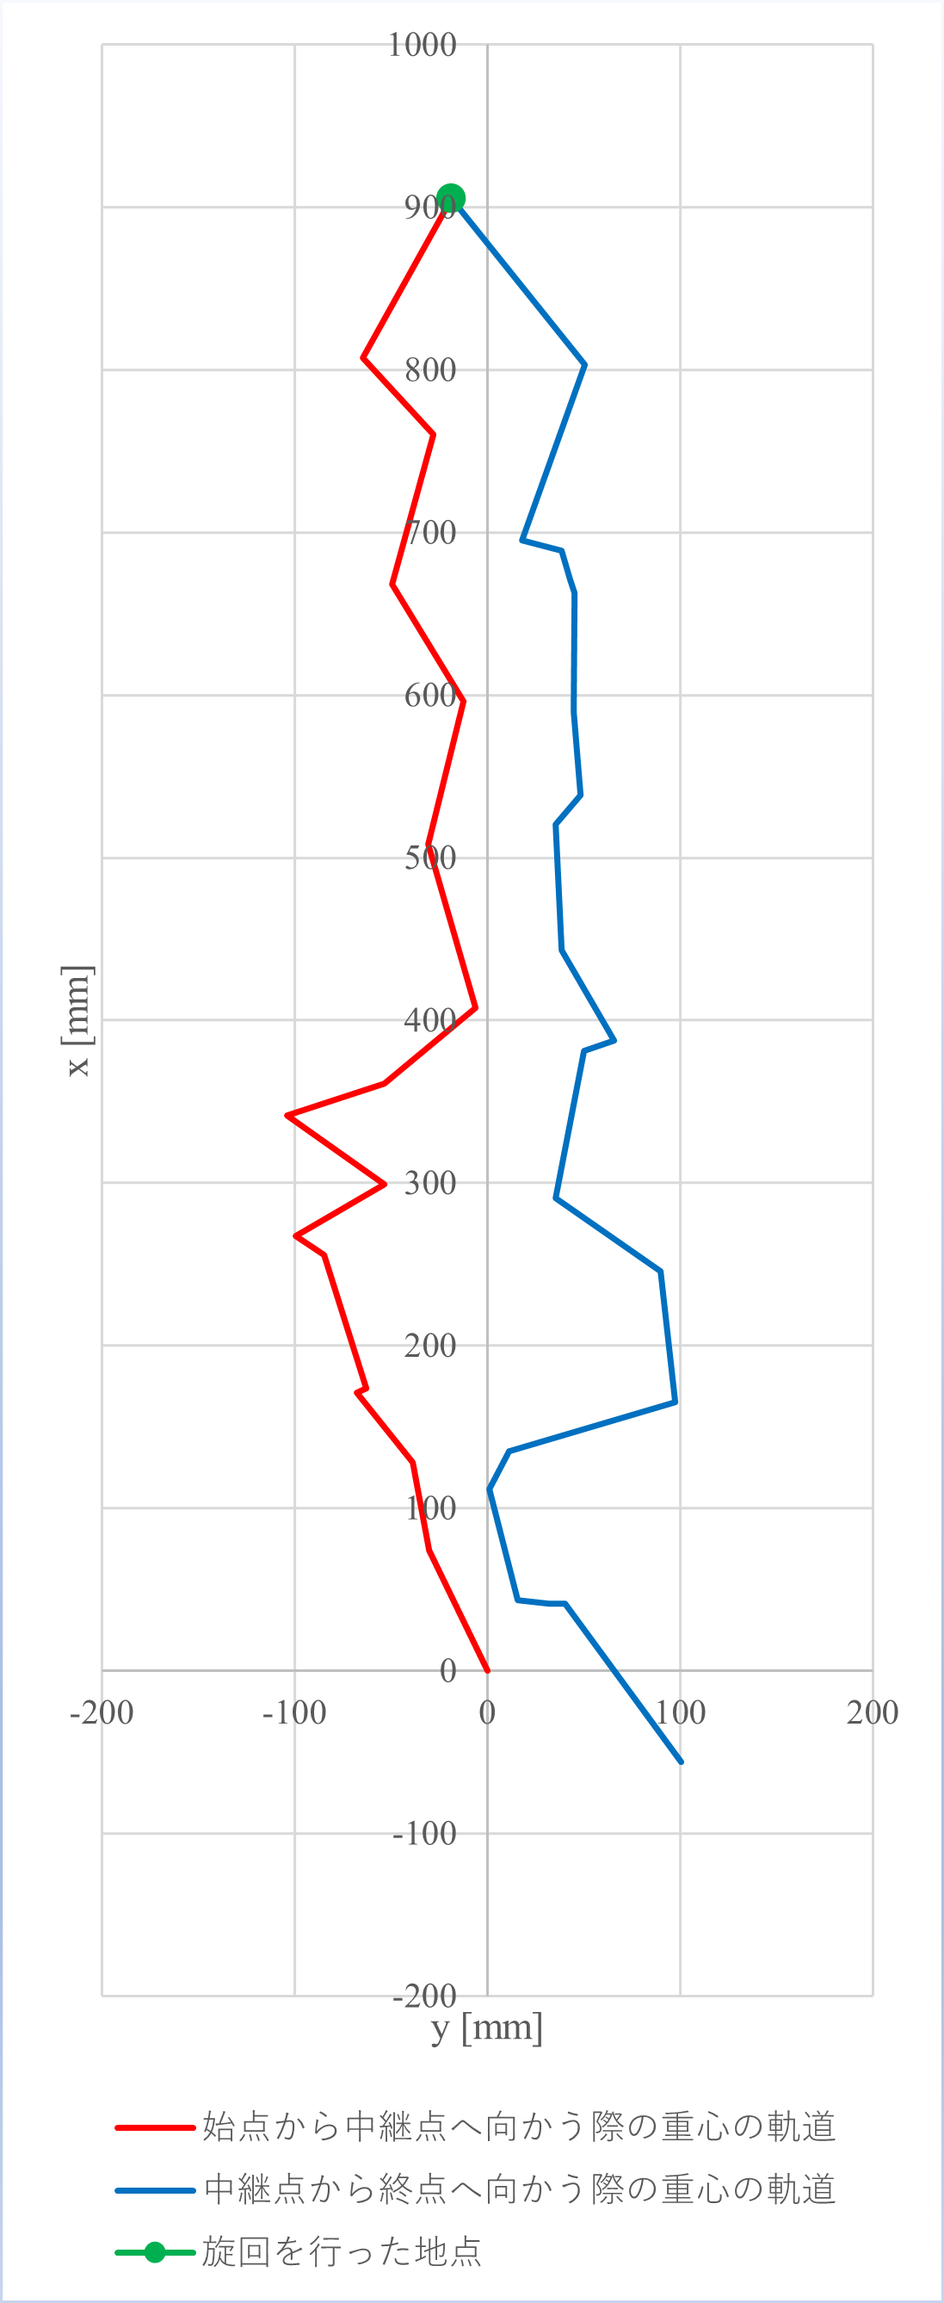
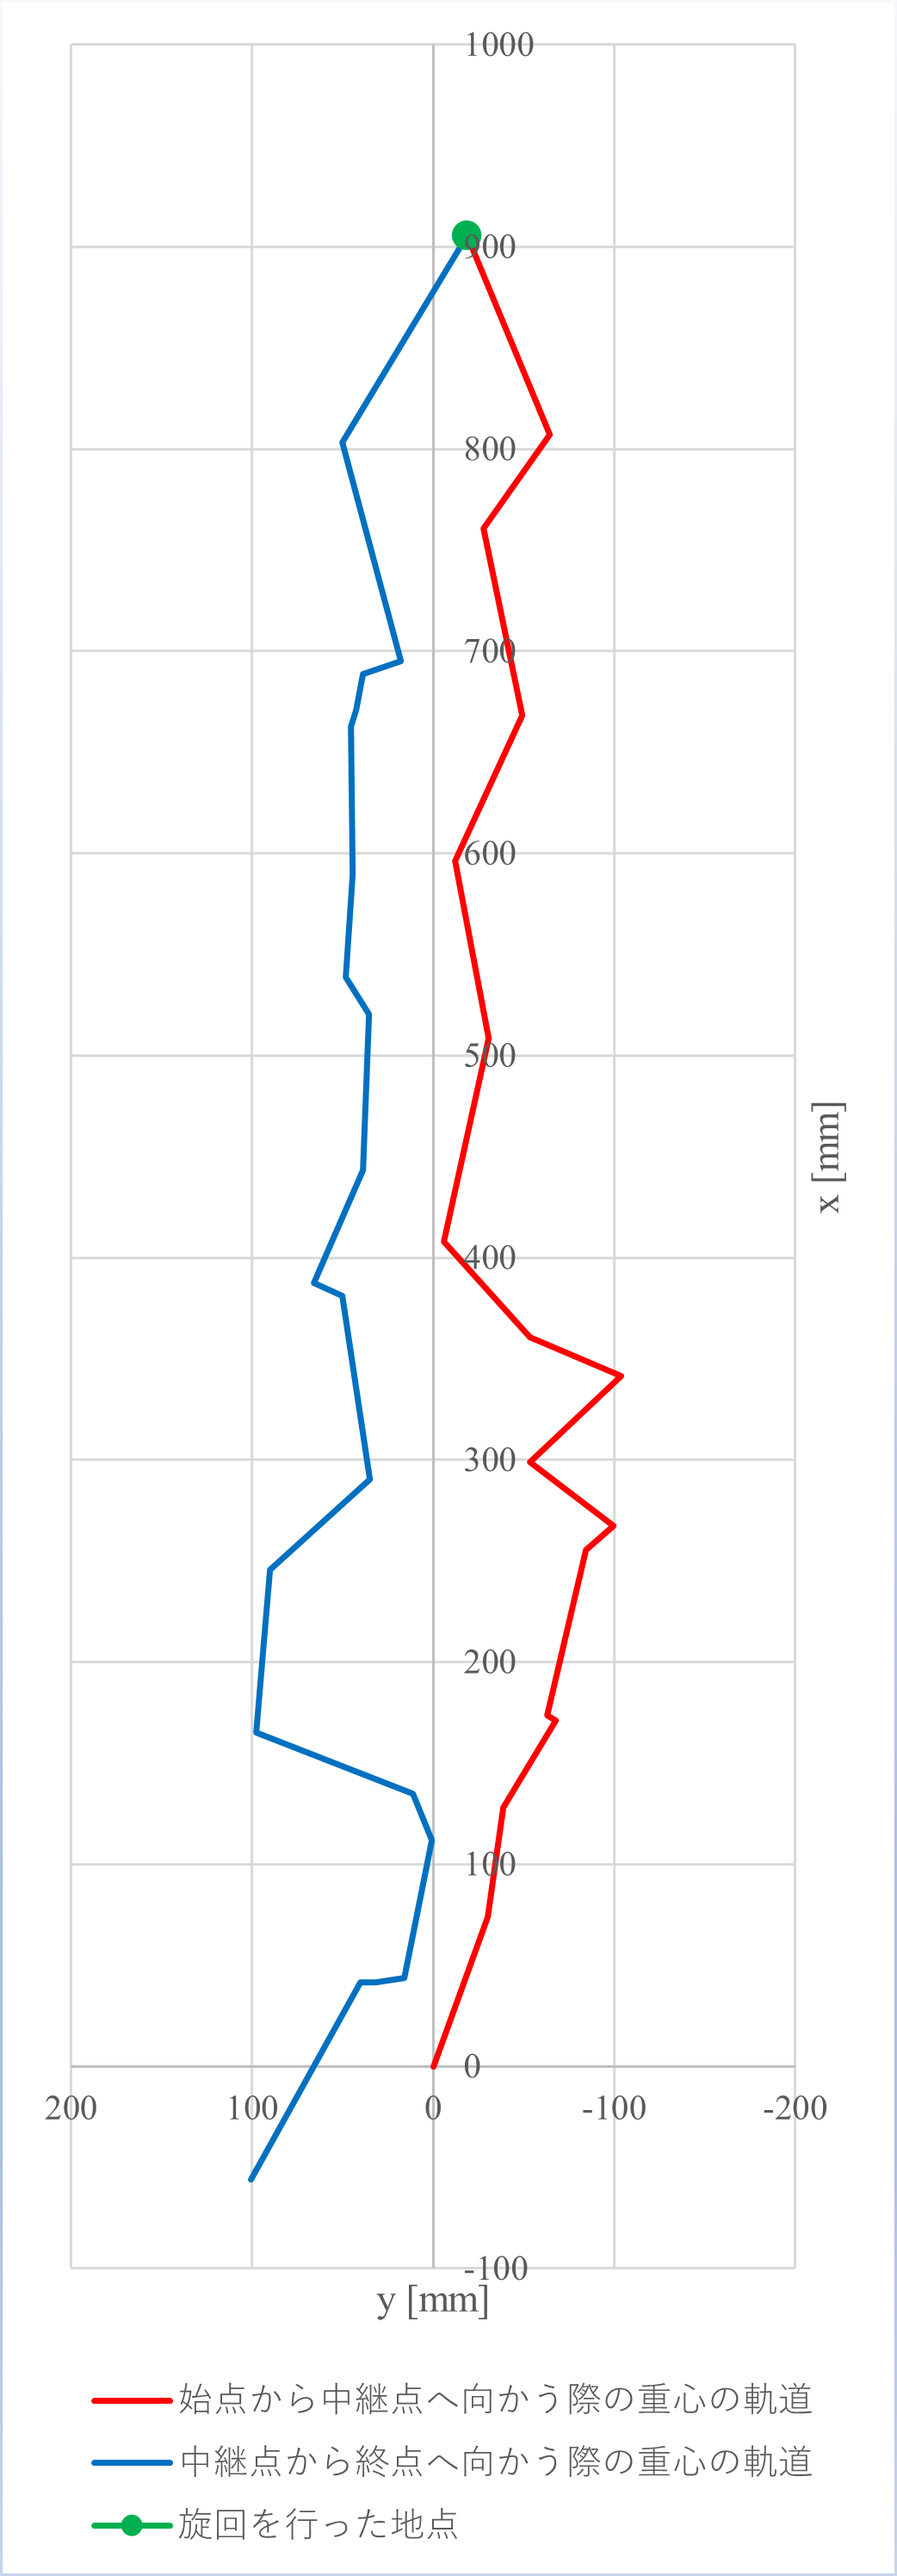
b

diff --git a/text/chapter4_turn.tex b/text/chapter4_turn.tex
@@ -4,31 +4,37 @@
 しかし，最小半径を140mmに設定すると，近似された脚の可動範囲が小さくなる．
 そのため，先行研究の手法で歩行することができた地形であっても，歩行できなくなる可能性がある．
 直進動作時については，歩行することができることを確認できたため，
-本章では，旋回動作を行う際に，最小半径を140mmとした場合に，歩行できるかを検証することを目的とする．
+本章では最小半径を140mmとした場合に，旋回動作を行うことができることを確認し，
+最小半径を140mmに設定することが脚軌道生成の失敗を防ぐために有効であるかを検証することを目的とする．
 
-先行研究では旋回動作は2次元空間でのみ実装されていたが，新たに3次元空間での旋回動作を実装したため，
-先行研究で確認された地形を含めた3次元空間での旋回動作をシミュレーションで検証する．
+椎名らの研究では旋回動作は2次元空間でのみ実装されていたが，新たに3次元空間での旋回動作を実装したため，
+椎名らの研究でシミュレーション実験が行われた地形を含めた，3次元空間での旋回動作をシミュレーションで検証する．
 
 \subsection{シミュレーション実験の条件}
-シミュレーションを行うソフトウェア，シミュレーションを行う計算環境，
-モデルとするロボットは直進動作のシミュレーション実験と同様であるため説明を省略する．
+シミュレーションを行うソフトウェア，
+シミュレーションを行う計算環境およびモデルとするロボットは，
+直進動作のシミュレーション実験と同様であるため説明を省略する．
 歩行条件についても直進動作のシミュレーション実験と同様とするが，
-最小半径を140mmとし，動作は旋回動作とする．また，旋回は超信地旋回的に行う．
+最小半径を140mmとし，再評価手法を用いないこととする．
+動作は旋回動作のみを行うものとし，旋回は重心を平行に移動させずに，超信地旋回のように行う．
 
 \subsubsection{歩行する地形}
 先行研究でシミュレーションが行われた地形は，
 平地（\figref{fig:ch5_simu_terrain_turn}（a）），
 亀裂のある地形（\figref{fig:ch5_simu_terrain_turn}（b）），
 溝のある地形（\figref{fig:ch5_simu_terrain_turn}（c））であるため，
-これらの3つの地形でシミュレーションを行うこととした．
+これらの3つの地形でシミュレーションを行った．
 また，3次元空間での旋回動作を行うために，
 これらの地形の中央に100mm，110mm，120mm，130mmの段差を設けた地形もシミュレーションに用いた．
-さらに，これらの地形の全体を5度，10度，15度傾斜させた地形もシミュレーションに用いた．
-\figref{fig:ch5_simu_terrain_turn2}は左図が平面地形に130mmの段差を設けた地形であり，
-右図は平面地形を15度傾斜させた地形である．
-段差を100mmから130mmとした理由は，波東らの研究によって，
-胴体姿勢を変更しない場合には上ることができる段差の高さの最大値が，130mm程度であることがわかったためである．
-傾斜を5度から15度とした理由も同様である．
+さらに，これらの地形の全体を$5^{\circ}$，$10^{\circ}$，$15^{\circ}$傾斜させた地形もシミュレーションに用いた．
+\figref{fig:ch5_simu_terrain_turn2}（a）は平面地形に130mmの段差を設けた地形であり，
+\figref{fig:ch5_simu_terrain_turn2}（b）は平面地形を$15^{\circ}$傾斜させた地形である．
+段差を100mmから130mmとした理由は，
+波東らの研究によって，
+PhantomXが胴体姿勢を変更せずに，
+踏破することができる段差の高さの最大値は130mm程度であることがわかったためである．
+傾斜を$5^{\circ}$から$15^{\circ}$とした理由も同様に，
+最大の傾斜は$15^{\circ}$程度であるためである．
 
 \newpage
 
@@ -88,9 +94,9 @@
 シミュレーションは次に示す手順で行った．
 なお，旋回方向は反時計回りでシミュレーションを行った．
 \begin{enumerate}
-  \item ロボットの胴体を地形から30mm離れるようにロボットを配置し，脚先は地形に接触している状態となるようにする．
-  \item 旋回動作を行い，胴体が重力方向を軸として360度旋回するまでの歩容パターンを生成する．
-  \item 歩容パターン生成に失敗することなく，また脚軌道生成に失敗することなく，360度旋回することができた場合を成功とする．
+  \item ロボットの胴体を地形から30mm離れるようにロボットを配置し，各脚先は地形に接地する高さとした．
+  \item 胴体が，重力方向を軸として360度旋回するまで歩容パターンを生成し，ロボットを歩行させる．
+  \item 歩容パターン生成に失敗することなく，また脚軌道生成に失敗することなく，360度旋回することができた場合を旋回の成功とする．
   \item 地形を変更し，（1）から（3）を繰り返す．各地形において旋回動作が成功するかを確認する．
 \end{enumerate}
 
@@ -103,6 +109,9 @@
 \figref{fig:ch5_simu_res_1}と同様に，横軸をx軸，縦軸をz軸としており，単位はmmである．
 \figref{fig:ch5_range_revaluation}の$50 < x < 250$, $−200 < z < 0$の範囲を拡大したものであり，
 脚先座標は支持脚時を青い丸点，遊脚時を赤い丸点，脚軌道生成に失敗した際の脚軌道の中継点を水色の$\times$で示している．
+加えて，黒の実線で示した範囲は実際の脚の可動範囲であり，
+赤の実線で示した直線は遊脚高さ，
+黄緑の実線で示した範囲が最小半径を140mmとした場合の近似された脚の可動範囲である．
 この図より，脚軌道が可動範囲外を通ることはないことがわかる．
 \\
 
@@ -126,14 +135,18 @@
 \input{text/chapter4_turn_result.tex}
 
 \subsection{考察}
-傾斜や段差がない場合，すべての地形で旋回動作を行うことができたため，
+すべての地形で旋回動作を行うことができたため，
 最小半径を140mmに設定したとしても，
 先行研究で歩行することができた地形を歩行することができなくなってしまうことはないことがわかった．
 また，3次元空間においてもすべての地形で旋回動作が成功したことから，
 3次元空間でも旋回動作が可能であるとわかった．
 
-これらの地形で旋回動作を行うことができた理由として，
-各地形を旋回する上で必要な高さまで脚先を下げることができたためと考えられる．
+また，\figref{fig:ch5_result_turn1}，\figref{fig:ch5_result_turn2}に示した脚先座標から，
+脚軌道が可動範囲外を通ることもなかったため，
+最小半径を140mmとした場合の近似された脚の可動範囲は旋回動作を行うために必要な
+脚の接地点を過不足なく近似できているといえる．
 
+結論として，最小半径を140mmとした場合でも，旋回動作を行うことができることを確認できたため，
+最小半径を140mmとすることが脚軌道生成の失敗の防ぐために有効であるとわかった．
 
-結論として，最小半径を140mmとした場合でも，旋回動作を行うことができることを確認できた．
+\newpage

diff --git a/text/chapter4_integration.tex b/text/chapter4_integration.tex
@@ -3,11 +3,12 @@
 4.1章，4.2章のシミュレーション実験によって，
 最小半径を140mmに設定することで，
 脚軌道生成に失敗することなく直進動作，旋回動作を行えることが確認された．
-そこで，これらの直進動作と旋回動作を組み合わせた場合でも，
-最小半径を140mmに設定することで，脚軌道生成に失敗することなく
-歩行することができるかを検証することを目的とする．
+そこで本章では，これらの直進動作と旋回動作を組み合わせた場合でも，
+最小半径を140mmに設定することで，
+脚軌道生成に失敗することなく歩行することができるか確認する．
+これによって，最小半径を140mmに設定することが脚軌道生成の失敗を防ぐために有効であるかを検証することを目的とする．
 
-グラフ探索による自由歩容パターン生成手法を統合したプログラムを用いて，
+本章では新たに実装した，自由歩容パターン生成手法を統合したプログラムを用いて，
 直進動作と旋回動作を組み合わせた歩容パターンを生成し，
 脚軌道生成に失敗することなく歩行できること，
 また指定した通りに動作を切り替えることができることを確認する．
@@ -36,11 +37,13 @@
 130mmの段差がある地形では，始点を$(0,0,0)$，中継点を$(1000,0,130)$，終点を$(0,0,0)$とする．
 15度傾斜した地形では，始点を$(0,0,0)$，中継点を$(1000,0,129.5)$，終点を$(0,0,0)$とする．
 
+\newpage
+
 % chapter4/integration_flat_map.png
 \begin{figure}[htbp]
   \begin{center}
-    \includegraphics[width=0.7\linewidth]{figure/chapter4/integration_flat_map.png}
-    \caption{Flat terrain}
+    \includegraphics[width=0.7\linewidth,trim={0 50 0 0}, clip]{figure/chapter4/integration_flat_map.png}
+    \caption{Route of Movement on Flat Terrain}
     \label{fig:ch4_integration_flat_map}  % chktex 24
   \end{center}
 \end{figure}
@@ -49,7 +52,7 @@
 \begin{figure}[htbp]
   \begin{center}
     \includegraphics[width=0.7\linewidth,trim={50 50 50 50}, clip]{figure/chapter4/integration_130mm_map.png}
-    \caption{130mm steps terrain}
+    \caption{Route of Movement on 130mm Steps Terrain}
     \label{fig:ch4_integration_130mm_map}  % chktex 24
   \end{center}
 \end{figure}
@@ -58,7 +61,7 @@
 \begin{figure}[htbp]
   \begin{center}
     \includegraphics[width=0.7\linewidth,trim={50 50 50 50}, clip]{figure/chapter4/integration_15deg_map.png}
-    \caption{15 degrees slope terrain}
+    \caption{Route of Movement on $15^{\circ}$ Slope Terrain}
     \label{fig:ch4_integration_15deg_map}  % chktex 24
   \end{center}
 \end{figure}
@@ -82,12 +85,21 @@
 軸を取っており，脚先座標も支持脚時を青い丸点，遊脚時を赤い丸点，脚軌道生成に失敗した際の脚軌道の中継点を水色の$\times$で示している．
 この図より，脚軌道が可動範囲外を通ることはなかったことがわかる．
 
-また，ロボットが歩行する様子を\figref{fig:ch4_result_integration_view_flat}，\figref{fig:ch4_result_integration_view_130mm}に示す．
+また，\figref{fig:ch4_result_integration_graph}に各地形でのロボットの重心の移動軌跡を示す．
+\figref{fig:ch4_result_integration_graph}では，横軸をワールド座標系におけるy軸，縦軸をx軸としており，単位は$[mm]$である．
+始点から中継点へ移動する際の重心の移動軌跡を赤い線で示し，中継点から終点へ移動する際の重心の移動軌跡を青い線で示しており，
+中継点は緑の点で示している．
+この図より，ロボットは中継点，終点から最大で100mm程度ずれた位置に到達していることがわかる．
+
+
+そして，ロボットが歩行する様子を\figref{fig:ch4_result_integration_view_flat}，\figref{fig:ch4_result_integration_view_130mm}に示す．
 これら図ではロボットの重心の移動軌跡を黄色い線で示している．
 加えてロボットの正面をわかりやすくするために，ロボット胴体の正面に赤い球を表示している．
-それぞれ，動作の様子をタイムラプス的に20枚の写真で示している．
-右上に01から20までの番号が振られており，初めから順番にロボットの動作を確認することができる．
-この図よりロボットが直進動作から旋回動作に動作を切り替えていることがわかる．
+それぞれ，動作の様子をタイムラプス的に撮影した20枚の写真で示している．
+右上に01から20までの番号が振られており，00が始点にロボットが配置された状態である．
+これらの図よりロボットが直進動作と旋回動作の動作を切り替えていることがわかる．
+
+\newpage
 
 % 脚先を示すグラフ
 \begin{figure}[htbp]
@@ -120,6 +132,34 @@
 \end{figure}
 
 \begin{figure}[htbp]
+  \begin{tabular}{ccc}
+    \begin{minipage}[t]{0.3\hsize}
+      \begin{center}
+      \fbox{\includegraphics[width=0.9\linewidth]{figure/chapter4/integration/flat_com.png}}
+      \text{(a) flat}
+      \end{center}
+    \end{minipage} 
+    &
+    \begin{minipage}[t]{0.3\hsize}
+      \begin{center}
+      \fbox{\includegraphics[width=0.9\linewidth]{figure/chapter4/integration/130mm_com.png}}
+      \text{(b) 130mm steps}
+      \end{center}  
+    \end{minipage}
+    &
+    \begin{minipage}[t]{0.3\hsize}
+      \centering
+      \fbox{\includegraphics[width=0.9\linewidth]{figure/chapter4/integration/15deg_com.png}}
+      \centering
+      \text{(c) $15^{\circ}$ slope}
+    \end{minipage}  
+    \\
+  \end{tabular}
+  \caption{Path of Center of Mass for Each Terrain}
+  \label{fig:ch4_result_integration_graph} % chktex 24
+\end{figure}
+
+\begin{figure}[htbp]
   \begin{center}
     \includegraphics[width=1.0\linewidth]{figure/chapter4/integration/flat_view.png}
     \caption{View of Operation on a Flat}
@@ -143,6 +183,24 @@
   \end{center}
 \end{figure}
 
-
-
 \subsection{考察}
+結果よりロボットは直進動作と旋回動作を切り替えて歩行することができたため，
+実装した自由歩容パターンを統合したプログラムによって，
+直進動作と旋回動作を組み合わせた歩容パターンを生成することができるといえる．
+
+また\figref{fig:ch4_result_integration}より，脚軌道生成に失敗することなく歩行することができたため，
+最小半径を140mmに設定することが脚軌道生成の失敗を防ぐために有効であるといえる．
+
+\figref{fig:ch4_result_integration_graph}より，
+ロボットは指定した通りに動作を切り替えることができたが，
+指定した経路を追従できなかったことがわかる．
+これは，グラフ探索の評価関数において，
+重心をもっとも大きく移動するノードが高く評価されることにより，
+指定された地点から離れてしまったとしても，
+重心をもっとも大きく移動するノードを選択してしまうためであると考えられる．
+本研究では，脚軌道生成の失敗を防ぐことを目的としているため，
+経路の追従については考慮していなかったが，
+実際にロボットに作業をさせる際には，経路の追従も考慮する必要があるといえるだろう．
+経路を適切に追従させるためには，評価関数を変更することが考えられる．
+評価関数において，中継点への到達を重視することで，
+経路を追従するような歩容パターンを生成することができると考えられる．

diff --git a/main.tex b/main.tex
@@ -131,13 +131,13 @@
     %!!重要!!
     %各章は奇数ページから開始するように調整すること
     %つまり各章は偶数ページで終わるように、改ページ等を使用して調整する。
-  	%\input{text/chapter1.tex} % 第1章
-    %\input{text/chapter2.tex} % 第2章
-    %\input{text/chapter3.tex} % 第3章
+  	\input{text/chapter1.tex} % 第1章
+    \input{text/chapter2.tex} % 第2章
+    \input{text/chapter3.tex} % 第3章
     \input{text/chapter4.tex} % 第4章
-    %\input{text/chapter5.tex} % 第5章
-		%\input{text/chapter6.tex} % 第6章
-    %\input{text/appendix.tex} %付録（あれば）
+    \input{text/chapter5.tex} % 第5章
+		\input{text/chapter6.tex} % 第6章
+    \input{text/appendix.tex} %付録（あれば）
     \backmatter{}              %章番号を付けない
     \input{text/thanks.tex}    %謝辞
     \input{text/reference.tex} %参考文献
